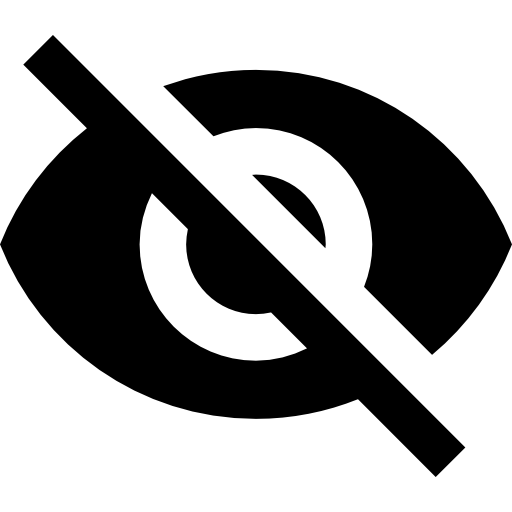
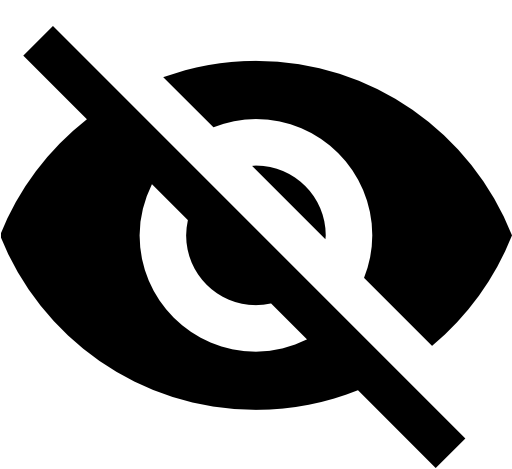
Adjusted image whitespace

diff --git a/timeweb/timewebapp/static/js/utils.js b/timeweb/timewebapp/static/js/utils.js
@@ -116,10 +116,8 @@ utils = {
                     const sa = utils.loadAssignmentData($(this));
                     sa.mark_as_done = !sa.mark_as_done;
                     ajaxUtils.sendAttributeAjaxWithTimeout('mark_as_done', sa.mark_as_done, sa.id);
-                    if (sa.mark_as_done)
-                        $(this).children("img").attr("src", "https://storage.googleapis.com/twstatic/images/show.png");
-                    else
-                        $(this).children("img").attr("src", "https://storage.googleapis.com/twstatic/images/hide.png");
+                    let status_image = sa.mark_as_done ? "show" : "hide";
+                    $(this).children("img").attr("src", DEBUG ? `static/images/${status_image}.png` : `https://storage.googleapis.com/twstatic/images/${status_image}.png`);
                     priority.sort();
                 });
             },
@@ -1433,7 +1431,6 @@ document.addEventListener("DOMContentLoaded", function() {
     utils.ui.setClickHandlers.deleteAllStarredAssignments();
     utils.ui.setClickHandlers.deleteAssignmentsFromClass();
     utils.ui.setClickHandlers.autofillWorkDone();
-    utils.ui.setClickHandlers.expandShortcutHitboxes();
     if (isExampleAccount) {
         utils.ui.exampleAccountAlertTutorial();
     }

diff --git a/timeweb/timewebapp/templates/index.html b/timeweb/timewebapp/templates/index.html
@@ -165,7 +165,7 @@
               <div class="button-slash"></div>
             </div>
             <div class="button" title="Hide Assignment" data-assignment-id="{{ assignment.pk }}" tabindex="0">
-              <img class="mark-as-done-button" width="25" height="25" src="{% if assignment.mark_as_done %}{% static 'images/show.png' %}{% else %}{% static 'images/hide.png' %}{% endif %}" draggable="false"/>
+              <img class="mark-as-done-button" width="26" src="{% if assignment.mark_as_done %}{% static 'images/show.png' %}{% else %}{% static 'images/hide.png' %}{% endif %}" draggable="false"/>
             </div>
             <div class="button" title="Edit Assignment" data-assignment-id="{{ assignment.pk }}" tabindex="0">
               <img class="update-button" width="22" height="22" src="{% static 'images/edit.png' %}" draggable="false"/>

diff --git a/timeweb/timewebapp/static/css/index.css b/timeweb/timewebapp/static/css/index.css
@@ -712,8 +712,8 @@ a[href="settings"] {
 }
 .button.slashed .tick-button {
     /* for help https://bennettfeely.com/clippy/ */
-    -webkit-clip-path: polygon(0 0, 0 100%, 100% 100%, 10% 0, 25% 0, 100% 85%, 100% 0%);
-            clip-path: polygon(0 0, 0 100%, 100% 100%, 10% 0, 25% 0, 100% 85%, 100% 0%);
+    -webkit-clip-path: polygon(0 0, 0 100%, 90% 100%, 0 0, 25% 0, 100% 85%, 100% 0);
+            clip-path: polygon(0 0, 0 100%, 90% 100%, 0 0, 25% 0, 100% 85%, 100% 0);
 }
 .button-slash {
     display: none;

diff --git a/timeweb/timewebapp/static/js/priority.js b/timeweb/timewebapp/static/js/priority.js
@@ -489,7 +489,7 @@ class Priority {
 
             if (status_image) {
                 dom_status_image.show();
-                dom_status_image.attr("src", `https://storage.googleapis.com/twstatic/images/${status_image}.png`);
+                dom_status_image.attr("src", DEBUG ? `static/images/${status_image}.png`: `https://storage.googleapis.com/twstatic/images/${status_image}.png`);
             } else {
                 dom_status_image.hide();
                 dom_status_image.removeAttr("src");
